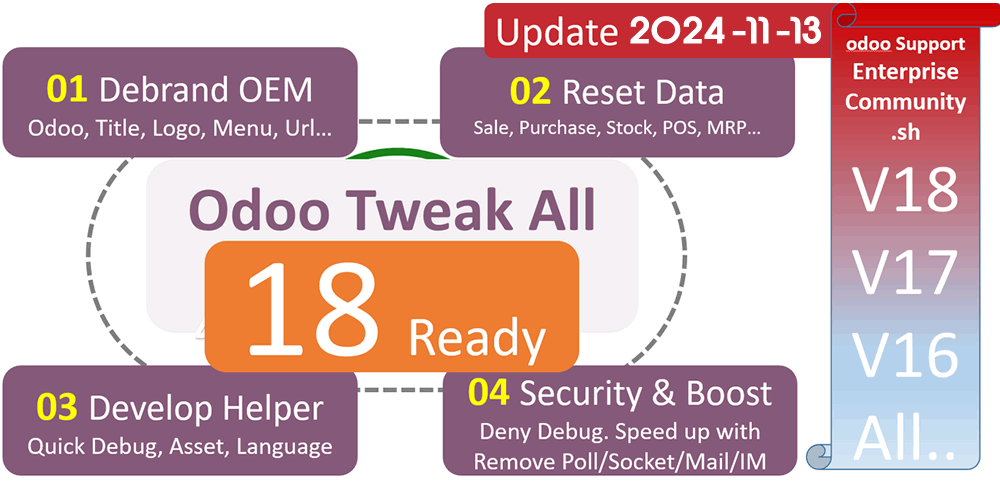
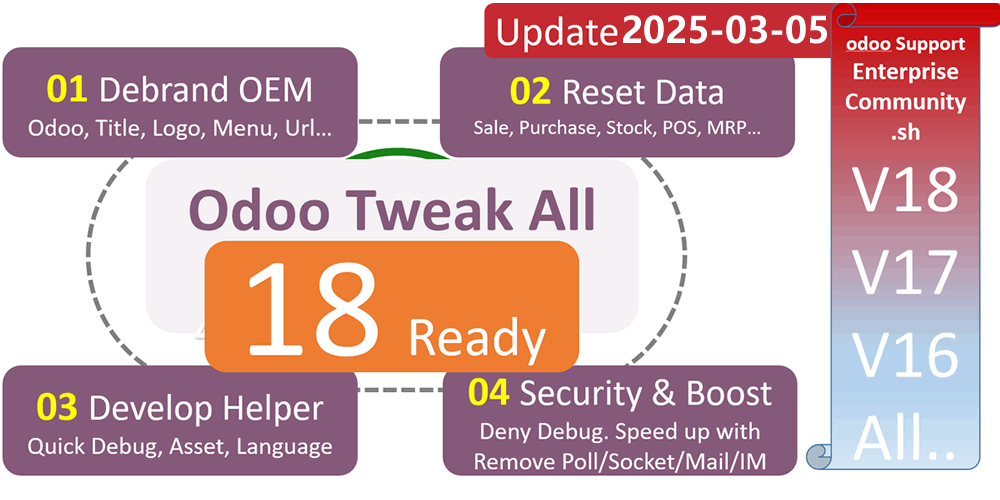
update misc for odoo.com seo

Changed region(s): [[0.62, 0.03, 0.837, 0.09]]

diff --git a/app_odoo_customize/static/description/index.html b/app_odoo_customize/static/description/index.html
@@ -18,7 +18,7 @@
 <section class="container app">
     <div class="oe_row oe_spaced" style="max-width: 95%;">
         <div class="row">
-            <h2 class="oe_slogan">This is a Long Term Support Apps.Update: v18.24.12.19</h2>
+            <h2 class="oe_slogan">This is a Long Term Support Apps.Update: v18.0.25.03.05</h2>
             <div class="oe_demo" style=" margin: 30px auto 0; padding: 0 15px 0 0; border:none; width: 96%;">
                 <ul class="list-group">
                     <li class="list-group-item">1. Deletes Odoo label in footer</li>

diff --git a/app_odoo_customize/__manifest__.py b/app_odoo_customize/__manifest__.py
@@ -22,8 +22,8 @@
 # description:
 
 {
-    'name': '!_odoo Tweak OEM Development Enhance.Boost,Customize,Ai Employee,UI,Security,Remove Data All in One-优化提速50+项大全',
-    'version': '16.0.25.02.11',
+    'name': '!16odoo Tweak OEM Development Enhance.Boost,Customize,Ai Employee,UI,Security,Remove Data All in One-优化提速50+项大全',
+    'version': '16.0.25.03.05',
     'author': 'odooai.cn',
     'category': 'Extra Tools',
     'website': 'https://www.odooai.cn',